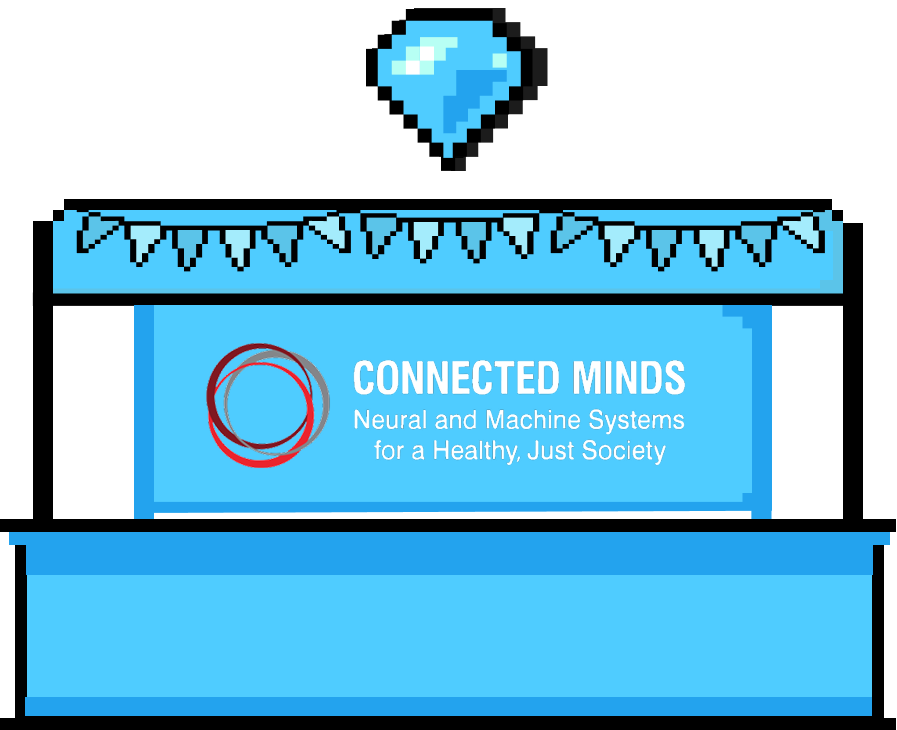
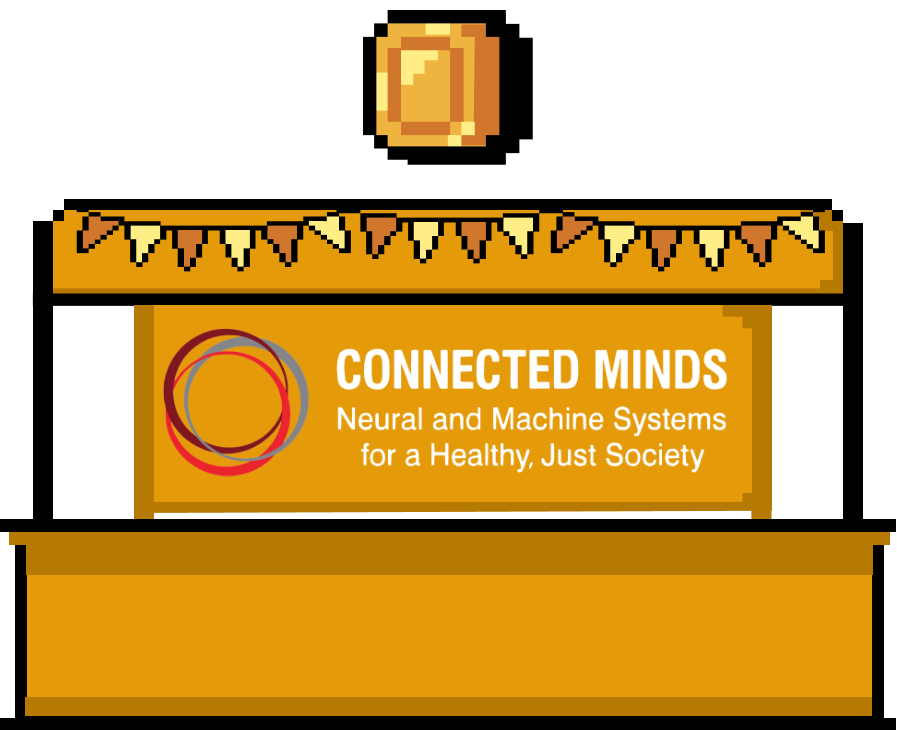
changing sponsors

diff --git a/src/data/sponsors.ts b/src/data/sponsors.ts
@@ -1,13 +1,31 @@
 "use client";
 export const sponsors = [
   {
+    name: "Accenture",
+    booth: "sponsorbooths/sponsorbooth-accenture.png",
+    desc: "Accenture is a global professional services company specializing in IT consulting, strategy, digital transformation, and operations.",
+    tier_color: "#4FCCFF",
+    website: "https://www.accenture.com/ca-en",
+    insta: "https://www.instagram.com/accenture/?hl=en",
+    linkedin: "https://ca.linkedin.com/company/accenture",
+  },
+  {
     name: "Connected Minds",
     booth: "sponsorbooths/sponsorbooth-connected.png",
     desc: "Connected Minds, based at York and Queen's Universities, addresses human-technology interaction risks through interdisciplinary research, focusing on social health and justice for Indigenous Peoples of Canada.",
-    tier_color: "#4FCCFF",
+    tier_color: "#E49A09",
     website: "https://www.yorku.ca/research/connected-minds/",
     insta: null,
     linkedin: "https://ca.linkedin.com/company/cfref-connected-minds",
+  },
+  {
+    name: "Cohere",
+    booth: "sponsorbooths/sponsorbooth-cohere.png",
+    desc: "Cohere is an AI company specializing in large language models (LLMs) for enterprises and developers. It offers powerful NLP tools for tasks like text generation, classification, and search.",
+    tier_color: "#E49A09",
+    website: "https://cohere.com/",
+    insta: null,
+    linkedin: "https://ca.linkedin.com/company/cohere-ai",
   },
   {
     name: "EY Canada",
@@ -35,15 +53,6 @@ export const sponsors = [
     website: "https://www.rsgint.com/",
     insta: "https://www.instagram.com/rsg.international/",
     linkedin: "https://ca.linkedin.com/company/rsg-international-ca",
-  },
-  {
-    name: "Cohere",
-    booth: "sponsorbooths/sponsorbooth-cohere.png",
-    desc: "Cohere is an AI company specializing in large language models (LLMs) for enterprises and developers. It offers powerful NLP tools for tasks like text generation, classification, and search.",
-    tier_color: "#E49A09",
-    website: "https://cohere.com/",
-    insta: null,
-    linkedin: "https://ca.linkedin.com/company/cohere-ai",
   },
   {
     name: "School of Queen's Computing",

diff --git a/src/app/(3.5)Powerhouses.tsx b/src/app/(3.5)Powerhouses.tsx
@@ -35,7 +35,7 @@ export function PowerhousesBehindCUCAI({
             isDark ? "text-[#a2d8d7]" : "text-[#4705d2]"
           } text-xl sm:text-3xl font-[600]`}
         >
-          OUR 2024 SPONSORS
+          OUR SPONSORS
         </p>
         <h1
           className={`${
